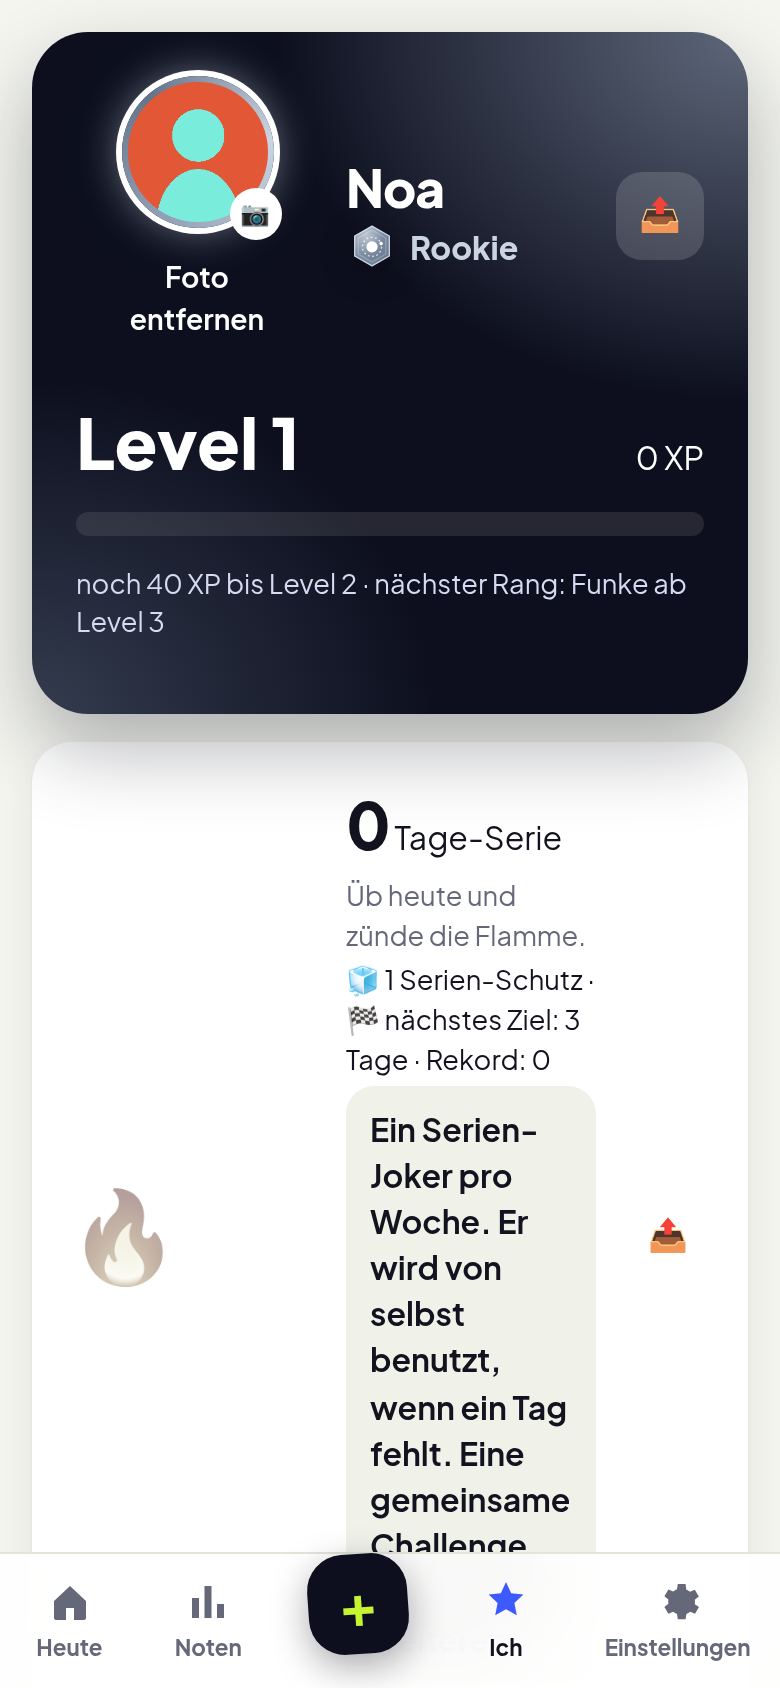
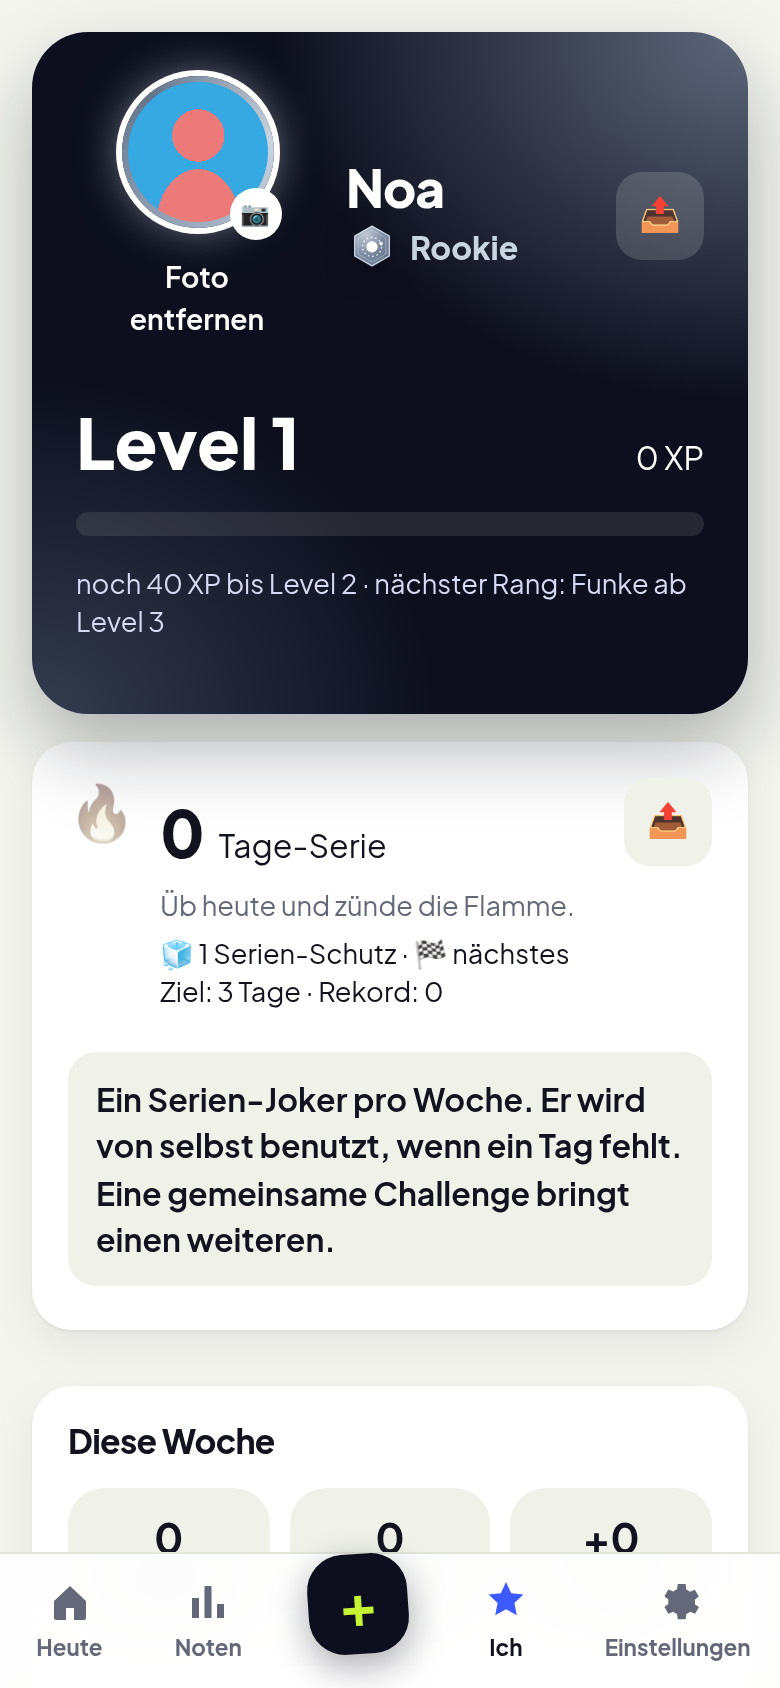
Let the streak card use the full width.
The flame sits beside the count, and the joker note runs under the whole card instead of a narrow column.

diff --git a/web/src/styles.css b/web/src/styles.css
@@ -314,8 +314,11 @@ textarea { resize: vertical; }
 .lvl-row { display: flex; justify-content: space-between; align-items: baseline; margin-top: 18px; } .lvl-num { font-size: 2.2rem; font-weight: 900; }
 .me-hero .xpbar i { background: linear-gradient(90deg, var(--c1), var(--glow)); } .me-hero .small { color: #d6dbf3; }
 .me-grid { display: grid; gap: 0 14px; } @media (min-width: 700px) { .me-grid { grid-template-columns: 1fr 1fr; } }
-.streak-card { display: flex; gap: 14px; align-items: center; } .streak-card > div { flex: 1; } .streak-card p { margin: 3px 0; }
-.flame { font-size: 2.8rem; filter: grayscale(.8); opacity: .6; transition: all .3s; } .flame[data-on='1'] { filter: none; opacity: 1; animation: flame 1.4s ease-in-out infinite; }
+.streak-card { display: grid; gap: 12px; } .streak-card p { margin: 4px 0; }
+.streak-head { display: flex; gap: 12px; align-items: flex-start; }
+.streak-copy { flex: 1; min-width: 0; }
+.streak-title { display: flex; align-items: baseline; gap: 8px; flex-wrap: wrap; margin: 0; }
+.flame { font-size: 1.7rem; line-height: 1.2; flex: none; filter: grayscale(.8); opacity: .6; transition: all .3s; } .flame[data-on='1'] { filter: none; opacity: 1; animation: flame 1.4s ease-in-out infinite; }
 .week-card h3 { margin-bottom: 4px; } .small-stats .stat { box-shadow: none; background: var(--card2); padding: 10px 6px; } .small-stats b { font-size: 1.3rem; }
 .badge-grid { display: grid; grid-template-columns: repeat(auto-fill, minmax(140px, 1fr)); gap: 10px; }
 .badge-tile { display: grid; justify-items: center; text-align: center; gap: 4px; padding: 14px 10px; border-radius: 18px; border: 0; background: var(--card); box-shadow: var(--shadow); opacity: .5; filter: grayscale(1); cursor: default; }
@@ -553,7 +556,7 @@ textarea { resize: vertical; }
 .explain-box .chips { display: grid; grid-template-columns: 1fr 1fr; }
 .explain-box .pill { justify-content: center; }
 .offline-banner { margin: 8px 0 12px; padding: 12px 14px; border-radius: 16px; background: var(--ink); color: var(--lime); font-weight: 800; }
-.joker-note { margin: 8px 0 0; padding: 10px 12px; border-radius: 14px; background: var(--card2); color: var(--text); font-weight: 650; }
+.joker-note { margin: 0; padding: 12px 14px; border-radius: 14px; background: var(--card2); color: var(--text); font-weight: 650; width: 100%; box-sizing: border-box; }
 .challenge-bar { height: 14px; }
 .explain-text { white-space: pre-wrap; font-weight: 650; }
 .explain-sketch { max-width: 320px; background: var(--card2); border-radius: 16px; }

diff --git a/web/src/pages/Me.tsx b/web/src/pages/Me.tsx
@@ -31,14 +31,17 @@ export function Me() {
 
       <div className="me-grid">
         <div className="card streak-card">
-          <div className="flame" data-on={p.streak.activeToday ? '1' : '0'}>🔥</div>
-          <div><b className="big-num" data-testid="me-streak">{p.streak.current}</b> <span>{tp('day_streak', p.streak.current)}</span>
-            <p className="muted small">{p.streak.activeToday ? t('streak_safe') : p.streak.current ? t('streak_today') : t('streak_start')}</p>
-            <p className="small" data-testid="joker-line">🧊 {tp('freezes_n', p.streak.freezes)} · 🏁 {tp('next_milestone', p.streak.next)} · {t('best_streak')}: {p.streak.best}</p>
-            <p className="joker-note" data-testid="joker-help">{t('joker_help')}</p>
-            {p.streak.frozenDays.length > 0 && <MerkiSay trigger="joker" placement="inline" />}
+          <div className="streak-head">
+            <div className="flame" data-on={p.streak.activeToday ? '1' : '0'} aria-hidden>🔥</div>
+            <div className="streak-copy">
+              <p className="streak-title"><b className="big-num" data-testid="me-streak">{p.streak.current}</b> <span>{tp('day_streak', p.streak.current)}</span></p>
+              <p className="muted small">{p.streak.activeToday ? t('streak_safe') : p.streak.current ? t('streak_today') : t('streak_start')}</p>
+              <p className="small" data-testid="joker-line">🧊 {tp('freezes_n', p.streak.freezes)} · 🏁 {tp('next_milestone', p.streak.next)} · {t('best_streak')}: {p.streak.best}</p>
+            </div>
+            <button className="icon-btn" aria-label={t('share')} onClick={() => setShare({ kind: 'streak' })}>📤</button>
           </div>
-          <button className="btn link" onClick={() => setShare({ kind: 'streak' })}>📤</button>
+          <p className="joker-note" data-testid="joker-help">{t('joker_help')}</p>
+          {p.streak.frozenDays.length > 0 && <MerkiSay trigger="joker" placement="inline" />}
         </div>
         <div className="card week-card">
           <h3>{t('this_week')}</h3>

diff --git a/web/src/components/SharedPlan.tsx b/web/src/components/SharedPlan.tsx
@@ -47,7 +47,7 @@ export function SharedPlan({ test }: { test: Test }) {
           <b>{ch.title}</b>
           <div className="member-bar challenge-bar" role="progressbar" aria-valuenow={Math.min(ch.total, ch.target)} aria-valuemax={ch.target}><i style={{ width: Math.min(100, Math.round(ch.total / ch.target * 100)) + '%' }} /></div>
           <p className="small" data-testid="challenge-count">{ch.total}/{ch.target}</p>
-          {ch.total === 0 && <p>{t('challenge_zero')}</p>}
+          {ch.total === 0 && <p data-testid="challenge-zero">{t('challenge_zero')}</p>}
           {ch.reached && <><p data-testid="challenge-done">{t('challenge_done')}</p><MerkiSay trigger="friend" placement="inline" /></>}
           {ch.reached && <ChallengeBonus />}
           <ul className="challenge-people">{ch.people.filter(p => !p.optedOut).map(p => <li key={p.name}>{p.name} · {p.units}</li>)}</ul>
